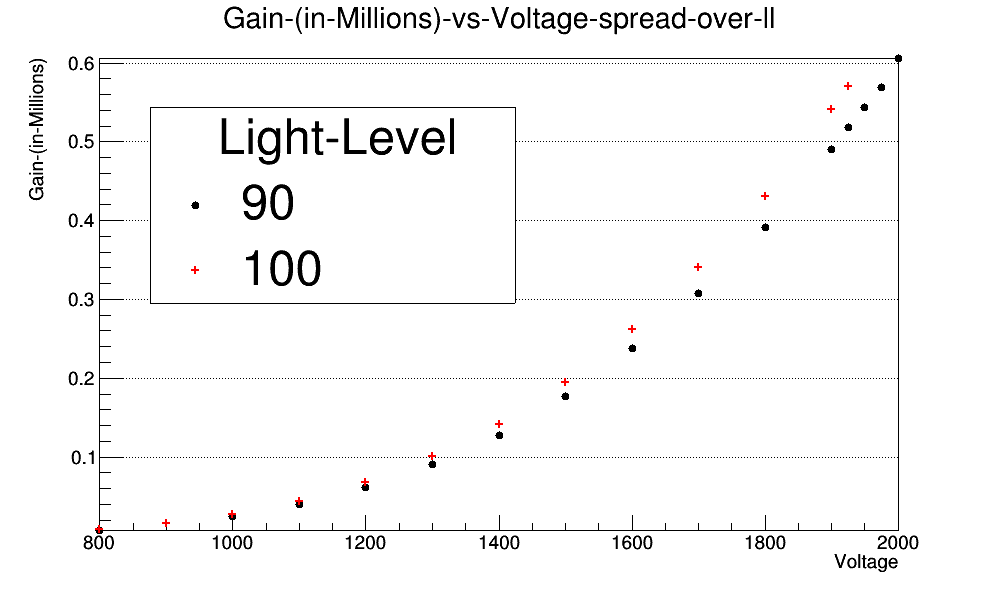
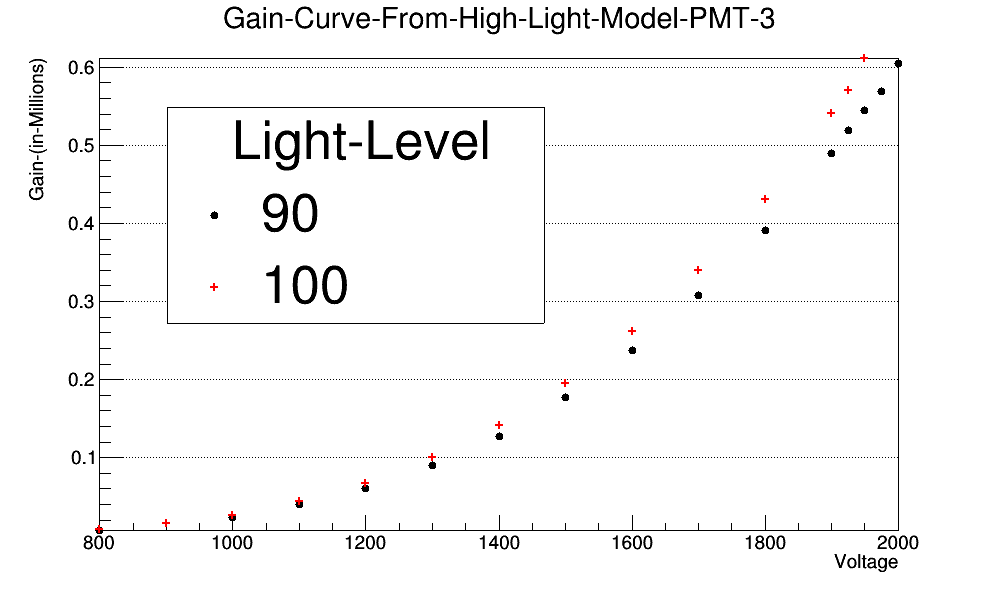
updated some plotted mysql results, added gainToSig function, updated make_gain_plot

diff --git a/make_gain_plot.c b/make_gain_plot.c
@@ -13,6 +13,7 @@
 
 #include "Math/SpecFunc.h"
 #include "fit_pmt_functions.c"
+#include "root_models.c"
 
 #include <TMinuit.h>
 #include <TApplication.h>
@@ -83,10 +84,10 @@ void make_gain_plot(string color = "black", string title = "Gain vs. High Voltag
 	fit_line->SetParameter(0, -2.0);
 	fit_line->SetParameter(1, 0.001);
 	fit_line->SetLineColor(6);
-	TF1 *fit_hamamatsu = new TF1("fit_hama", power_curve_hamamatsu, low, max, 1);
-	fit_hamamatsu->SetParameter(0, 1e-12);
+	//TF1 *fit_hamamatsu = new TF1("fit_hama", power_curve_hamamatsu, low, max, 1);
+	//fit_hamamatsu->SetParameter(0, 1e-12);
 //	gr1->Fit(fit_hamamatsu, "RS", "", max * 0.08, max * 0.9);
-	gr1->Fit(fit_power, "RS", "", max * 0.08, max * 0.80);
+	gr1->Fit(fit_power, "RS", "", max * 0.08, max * 1.00);
 //	gr1->Fit(fit_power2, "RS+", "", max * 0.85, max * 1.01);
-  	gr1->Fit(fit_line, "RS+", "", max * 0.8, max * 1.01);
+//  	gr1->Fit(fit_line, "RS+", "", max * 0.8, max * 1.01);
 }

diff --git a/sigToGain.c b/sigToGain.c
@@ -6,10 +6,19 @@
 #include <TApplication.h>
 
 
-double sigToGain(double sig, double mu, int scale=0){
+// This function takes in the signal size (in ADC channels)
+// of a single photoelectron ejection from the cathode and
+// returns the gain measurement from this value.
+
+// Optionally, a light level can be sent in to measure the gain
+// at a calibrated high light level.
+
+// scale = 0 means that the CAEN V965 ADC was on low-range mode
+// scale = 1 means that the ADC was on high-range mode
+double sigToGain(double sig, double mu = 1.0, int scale = 0){
 	double adc_factor = 25.0;
 	if (scale > 0) adc_factor *= 8.0;
-	return sig * adc_factor / mu / 160.217662;
+	return sig * adc_factor / (mu * 160.217662);
 }
 
 

diff --git a/gainToSig.c b/gainToSig.c
@@ -1,0 +1,18 @@
+// Brady Lowe // lowebra2@isu.edu
+
+#include <TROOT.h>
+#include <TMath.h>
+#include <TChain.h>
+#include <TApplication.h>
+
+
+// This function takes in a PMT gain (and optionally a light level)
+// and returns the number of ADC channels that represent a single PE
+// signal on the given ADC sensitivity range.
+double gainToSig(double gain, double mu = 1.0, int scale = 0){
+	double adc_factor = 25.0;
+	if (scale > 0) adc_factor *= 8.0;
+	return mu * 160.217662 * gain / adc_factor;
+}
+
+
